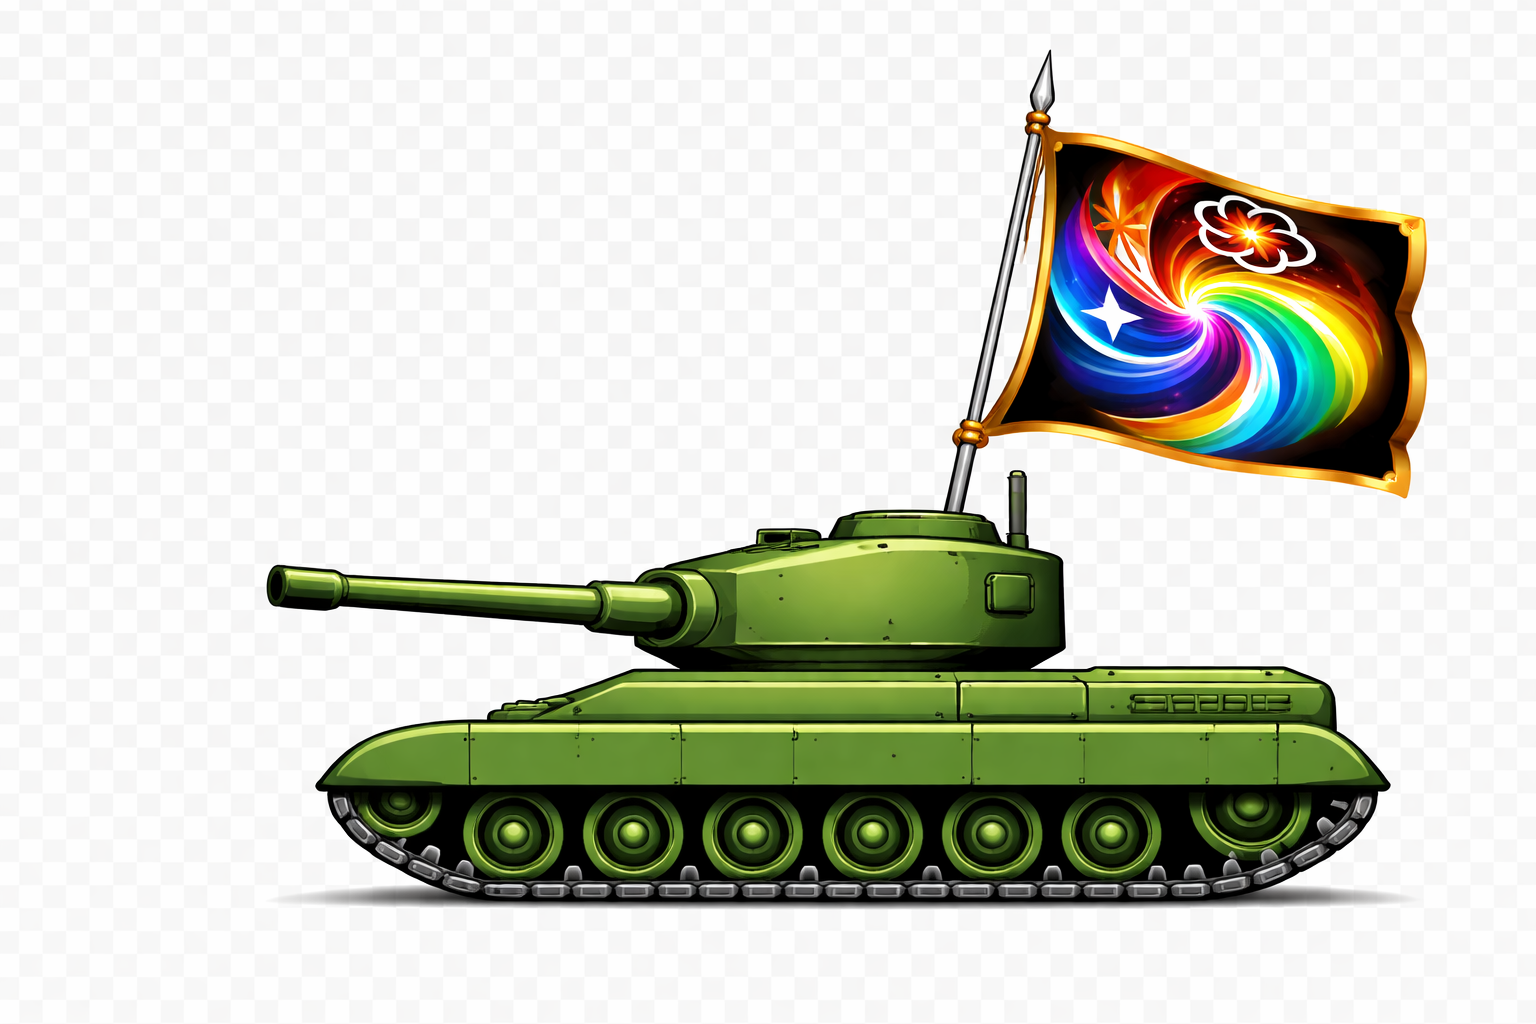
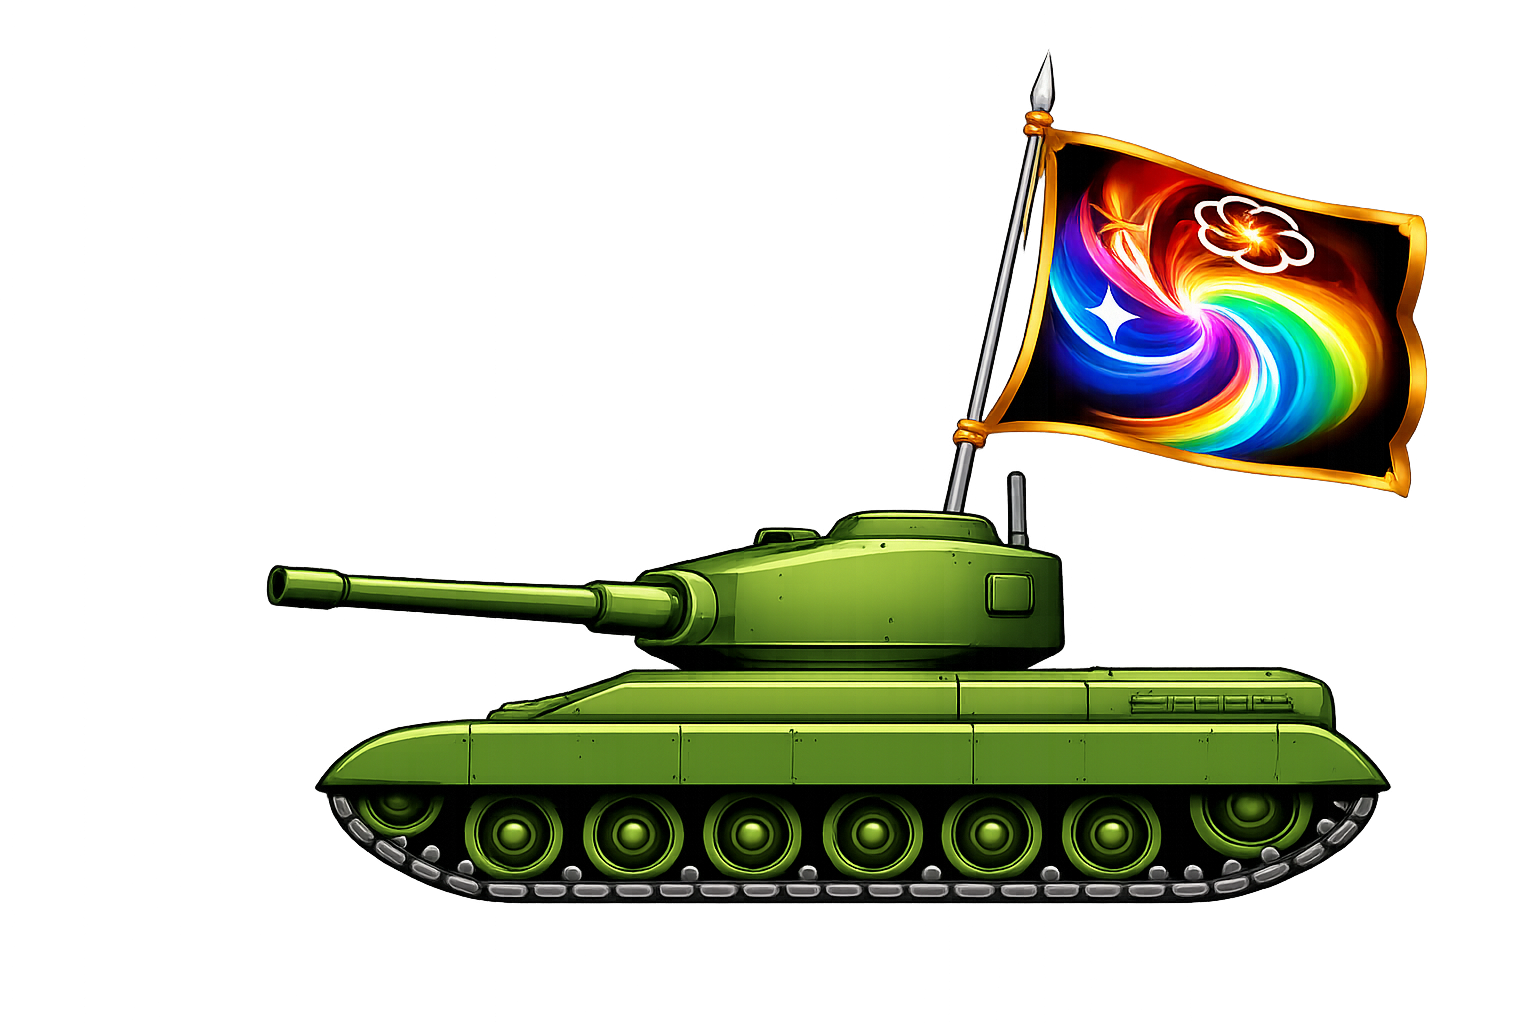
Add tool-commoditization slide and clean up code
- New slide with historical tool commoditization examples (printing press,
  mitre saw, GPS, arc welder, laser leveller)
- Update ai-tank-assault image for the-war-on-expertise slide
- Remove placeholder slide template comment
- Fix inconsistent indentation in tool-commoditization slide

Changed region(s): [[0.1875, 0.7188, 0.9062, 0.9062], [0.625, 0.0625, 0.9375, 0.5], [0.1562, 0.4688, 0.875, 0.7188]]

diff --git a/src/index.html b/src/index.html
@@ -519,18 +519,40 @@
         <!-- The War on Expertise Slide -->
         <div id="the-war-on-expertise" class="step" data-rel-x="40000" data-rel-y="0" data-scale="25" style="position: relative;">
             <h1 style="text-align: center; margin: 0; font-size: 56px;">The War on Expertise</h1>
-            <div style="display: flex; justify-content: center; margin-top: 40px;">
-                
+            <!-- Left: SRE Fort -->
+            <div style="position: absolute; left: 20px; top: 120px;">
+                <img src="images/fort-sre.png" style="width: 420px; height: auto;" />
+            </div>
+            <!-- Right: AI Tank -->
+            <div style="position: absolute; right: 40px; top: 250px;">
+                <img src="images/ai-tank-assault.png" style="width: 400px; height: auto;" />
             </div>
         </div>
 
-        <!-- Add your slides here -->
-        <!-- Example slide template:
-        <div id="slide-name" class="step" data-rel-x="40000" data-rel-y="0" data-scale="25">
-            <h1>Slide Title</h1>
-            <p>Content goes here</p>
+        <!-- Tool Commoditization Slide -->
+        <div id="tool-commoditization" class="step" data-rel-x="40000" data-rel-y="0" data-scale="25" style="position: relative;">
+            <h1 style="text-align: center; margin: 0; font-size: 52px;">We've commoditized it for centuries</h1>
+            <!-- Top-left: Printing press -->
+            <div style="position: absolute; left: 20px; top: 140px;">
+                <img src="images/printing-press.png" style="width: 250px; height: auto;" />
+            </div>
+            <!-- Top-center: Mitre saw -->
+            <div style="position: absolute; left: 400px; top: 180px;">
+                <img src="images/mitre-saw.png" style="width: 220px; height: auto;" />
+            </div>
+            <!-- Right: GPS map -->
+            <div style="position: absolute; right: 20px; top: 280px;">
+                <img src="images/apple-maps-gps.png" style="width: 200px; height: auto;" />
+            </div>
+            <!-- Bottom-left: Early arc welder -->
+            <div style="position: absolute; left: 200px; top: 380px;">
+                <img src="images/early-arc-welder.png" style="width: 240px; height: auto;" />
+            </div>
+            <!-- Bottom-center: Laser leveller -->
+            <div style="position: absolute; left: 580px; top: 510px;">
+                <img src="images/laser-leveller.png" style="width: 220px; height: auto;" />
+            </div>
         </div>
-        -->
 
         <!-- =============================================== -->
         <!-- END: THANK YOU -->
